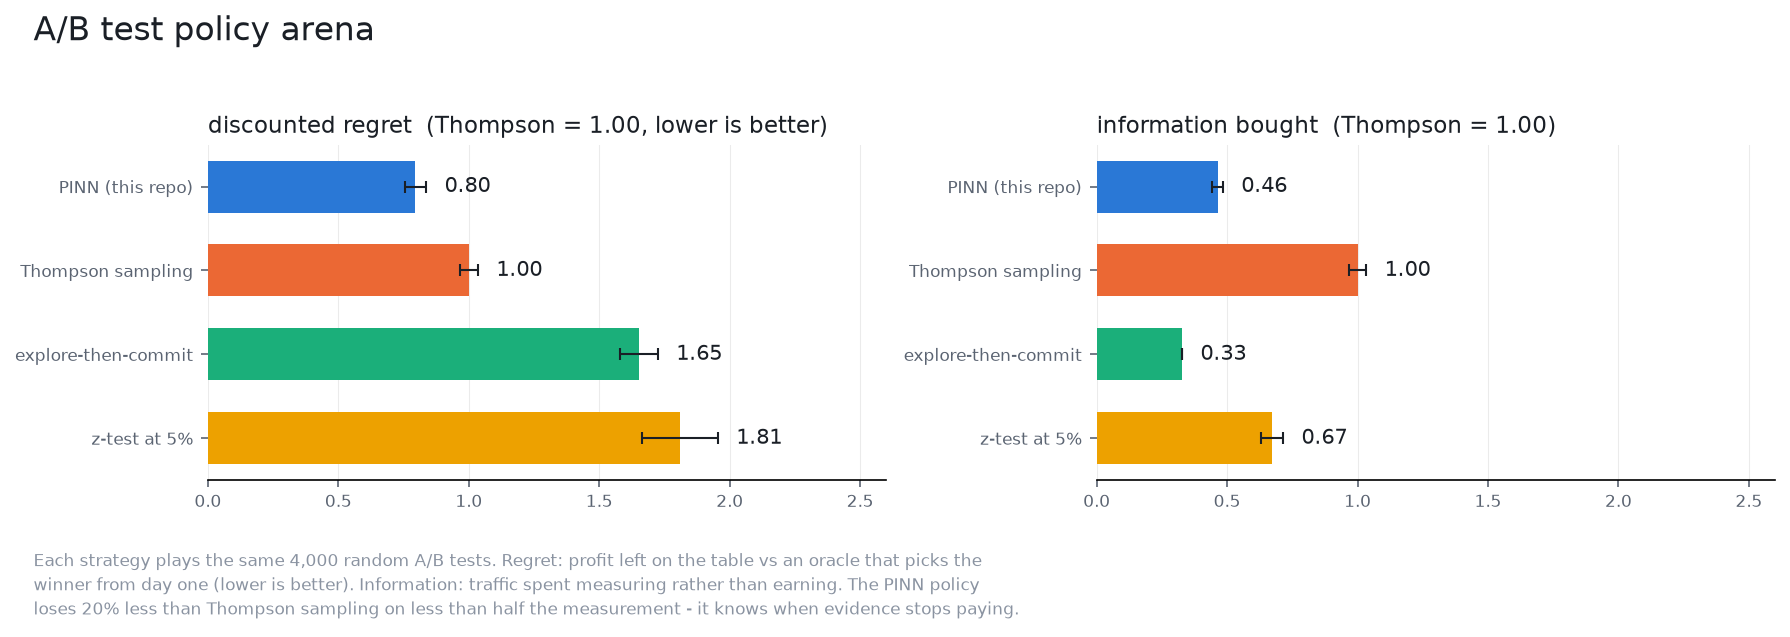
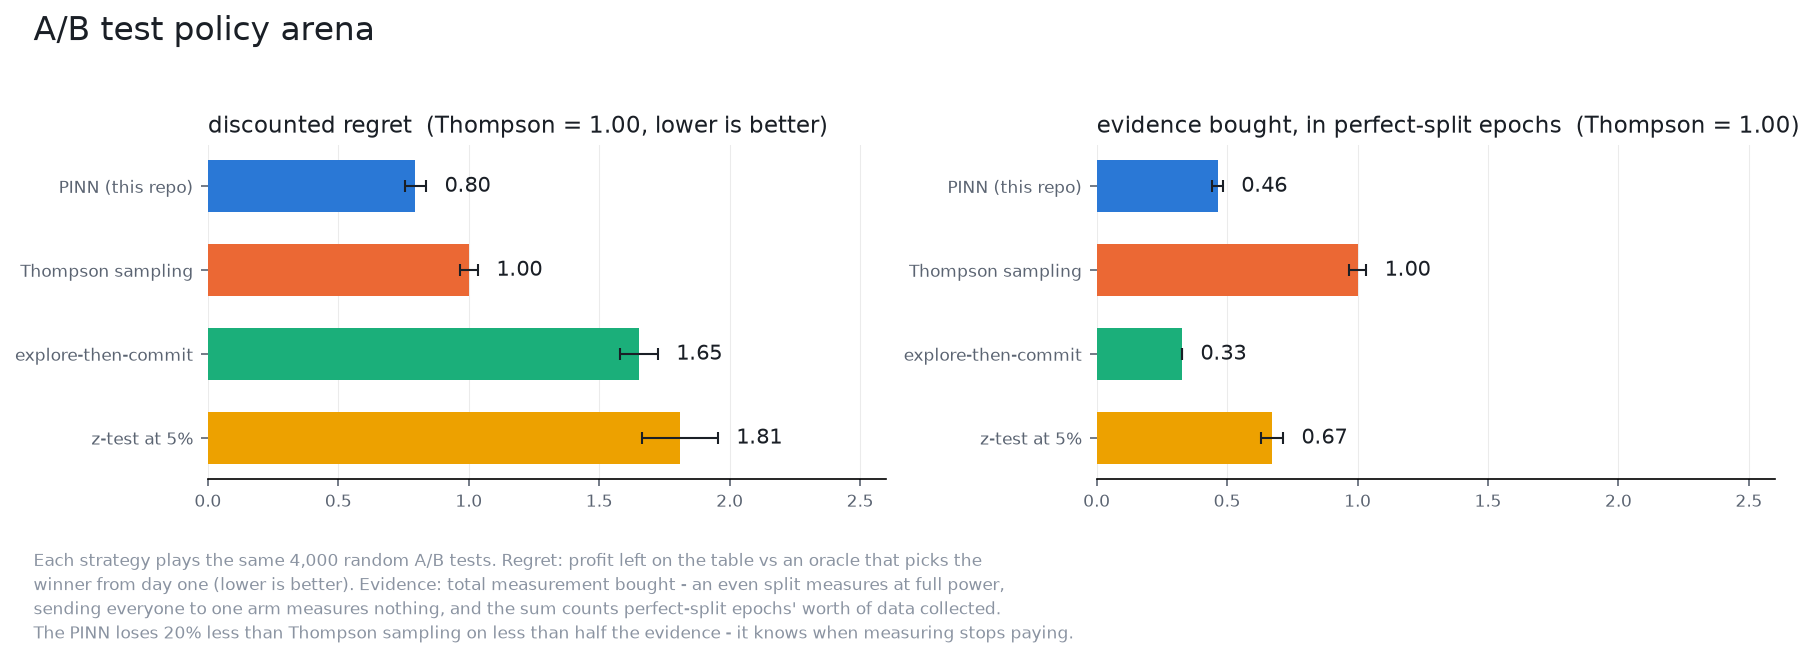
bumped readme

diff --git a/README.md b/README.md
@@ -1,8 +1,8 @@
 # PINN for optimal decisions in your business
 
-If you love money, you will love this repo! It's all about money and decision-making, things that Very-Important HiGh StAkEs people do. Naah! Just kidding. This is just for computers to take those decisions for you. For example, the age-old question: AB-testing. The blue button or the red button? In this repo,I tackle AB, ABC and more decision processes using the final-boss of all decision methodologies: [the HJB equation](https://en.wikipedia.org/wiki/Hamilton%E2%80%93Jacobi%E2%80%93Bellman_equation). If you are spooked by horrible equations, don't click!
+If you love money, you will love this repo! It's all about money and decision-making, things that Very-Important HiGh StAkEs people do. Naah! Just kidding. This is just for computers to take those decisions for you. For example, the age-old question: AB-testing. The blue button or the red button? In this repo, I tackle AB, ABC and more decision processes using the final-boss of all decision methodologies: [the HJB equation](https://en.wikipedia.org/wiki/Hamilton%E2%80%93Jacobi%E2%80%93Bellman_equation). If you are spooked by horrible equations, don't click!
 
-Since you might be a very busy person, here is the gist of it: I did the complex part so that you may have fun with a real piece of engineering. To _use_ the code in this repo, it's quite easy: you just need the trained model and off you go (see usage below). Yes, it's a Neural Net trained for _your_ problem. No, I didn't invade your company's server and stole your datasets. The neural networks here work as _controllers_ to solve a complicated, but well-known problem, such as AB testing. Just plug-and-play and let the neurons do the rest.
+Since you might be a very busy person, here is the gist of it: I did the complex part so that you may have fun with a real piece of engineering. To _use_ the code in this repo, it's quite easy: you just need the trained model and off you go (see usage below). Yes, it's a Neural Net trained for _your_ problem. No, I didn't invade your company's server and steal your datasets. The neural networks here work as _controllers_ to solve a complicated, but well-known problem, such as AB testing. Just plug-and-play and let the neurons do the rest.
 
 ## But is it any good?
 
@@ -10,63 +10,120 @@ Yes, it even beats Thompson Sampling for a simple AB test. Oh! If you have been 
 
 ![Arena results](docs/arena_two_arm.png)
 
-Slightly better than TS in terms of "gains left on the table" (regret) and with the added benefit that _it actually stops_. It also needs to explore less in total. TS, even though it can deliver the goods, is know to be quite the over-curious explorer and the neural network fixes that.  
+| policy | regret (Thompson = 1.00) | wrong commits | commits | evidence (Thompson = 1.00) |
+|---|---|---|---|---|
+| PINN (this repo) | **0.80** | 6.6% | 99.2% | **0.46** |
+| Thompson sampling | 1.00 | 0.0% | never | 1.00 |
+| explore-then-commit | 1.65 | 13.0% | 100% | 0.33 |
+| z-test at 5% | 1.81 | 10.7% | 93.7% | 0.67 |
 
-# pinn
+Slightly better than TS in terms of "gains left on the table" (regret) and with the added benefit that _it actually stops_. It also needs to explore less in total. TS, even though it can deliver the goods, is known to be quite the over-curious explorer and the neural network fixes that. Full tables, including the three-arm arena, live in [docs/arena_results.md](docs/arena_results.md).
 
-Physics-informed neural networks for the optimal allocation of experiment
-traffic: given noisy A/B(/C) test observations, a discount rate, and the
-option to commit to an arm forever, how should traffic be split *right now*?
-That question is a Hamilton-Jacobi-Bellman free-boundary problem; this repo
-solves it by training a network on the PDE itself — no simulation data — and
-reads the allocation policy off the trained value function's derivatives.
+## Beyond just AB
+
+### We can do ABC as well. Look at the policy atlas for it:
 
 ![The learned three-arm allocation policy](docs/policy_atlas.png)
 
-The picture is the trained three-arm policy: each point is a belief state
-(posterior means of challengers B and C relative to control), each color is
-the traffic split played there. With little information, the policy blends —
-paying for evidence on every arm at once. As information accumulates, three
-commit basins crystallize, separated by narrowing exploration corridors that
-meet at the triple point where all three arms are still in play. Nobody drew
-those boundaries; they are free boundaries of the HJB equation, found by the
-network.
+This "Gaussian blur"-thingy vanishing with information shows the net being more confident the more information you pass to it. And its performance is even better than for the AB test:
 
-## Does it matter?
+![A/B/C arena results](docs/arena_three_arm.png)
 
-![Arena results](docs/arena_two_arm.png)
+| policy | regret (Thompson = 1.00) | wrong commits | commits | evidence (Thompson = 1.00) |
+|---|---|---|---|---|
+| PINN (this repo) | **0.77** | 10.4% | 99.8% | **0.38** |
+| Thompson sampling | 1.00 | 0.0% | never | 1.00 |
+| elimination at 5% (generalized z-test) | 1.53 | 11.8% | 90.5% | 0.71 |
+| explore-then-commit | 1.81 | 20.9% | 100% | 0.29 |
 
-In a discrete-epoch simulation harness (`pinn/arena`) against the true
-effect, with paired seeds and realistic economics, the PINN
-policy pays **20% less discounted regret than Thompson sampling** — the
-strongest practical baseline, which itself beats explore-then-commit and
-peeking z-tests by wide margins — while buying **less than half the
-information**. The mechanism: Thompson sampling prices uncertainty but not
-patience; the HJB value function prices both, so it exploits earlier and
-knows when further evidence stops being worth its discounted cost.
+What about ABCD? Man, the equations are *gnarly* for ABC already and should just be impossible for ABCD, but if you want to build it, you are welcome to contribute with a PR. There is already some support and some tips about how to do it in
+[docs/learnings.md](docs/learnings.md). However, be warned that PINNs do not scale to even hundreds of input dimensions and the number of features you have to feed the network is quadratic.
+
+### More coming in the future
+
+There are other related problems I plan to tackle in the future. They are still stochastic models, but stray away from bandit problems. Star this repo and stay tuned!
 
 ## What's inside
 
-- `pinn/problems/two_arm`, `pinn/problems/three_arm` — the trainable models
-  (dimensionless, wedge-quotiented by the problems' exact symmetries),
-  samplers, and PDE losses. The math lives in `docs/two_arm.md` and
+A quick map of the repo, for the curious:
+
+- `pinn/problems/two_arm` and `pinn/problems/three_arm`: the trainable models,
+  samplers, and PDE losses (dimensionless, wedge-quotiented by the problems'
+  exact symmetries). The math lives in `docs/two_arm.md` and
   `docs/three_arm.md`; the transferable method in `docs/learnings.md`.
-- `pinn/arena` — the policy shoot-out: N-arm regret harness, baseline zoos
-  (Thompson, explore-then-commit, z-test/elimination), and the PINN entrant.
-  `poetry run arena simulate ... && poetry run arena analyze ...`.
-- `train.py`, `probes.py`, `plot.py`, `benchmark3.py`, `validate.py` — CLIs
+- `pinn/arena`: the policy shoot-out. An N-arm regret harness, the baseline
+  zoo (Thompson, explore-then-commit, z-test/elimination), and the PINN
+  entrant. Run it with `poetry run arena simulate ...` and then
+  `poetry run arena analyze ...`.
+- `train.py`, `probes.py`, `plot.py`, `benchmark3.py`, `validate.py`: CLIs
   for training and diagnostics.
 
-Trained checkpoints are published as GitHub release assets
-(`checkpoints-2026-08-06`); drop them in `data/` and every CLI finds them.
+Trained models are published on the
+[latest release](https://github.com/tokahuke/pinn/releases/latest). If you
+just want it to work, take `value_2a_32x512.pt` for two arms and
+`value_3a_64x64x64.pt` for three arms; the other assets are archival.
+Everything else in this repo exists to train, test, and beat those two files.
 
 ## Quickstart
 
 ```sh
 poetry install
 poetry run python train.py --problem three_arm     # train (Ctrl-C saves)
-poetry run python probes.py --in data/value_3a_64:64:64.pt   # diagnostics
+poetry run python probes.py --in data/three_arm.pt   # diagnostics
 poetry run arena simulate data/study.pkl --problem three_arm \
     --rho 0.999 --horizon 500 --sigma 1 --effect 0 --effect-std 0.3 --size 1000
 poetry run arena analyze data/study.pkl
 ```
+
+To use a trained two-arm model in your own code, load it from disk, tell it
+your economics, and ask for the split:
+
+```python
+import torch
+from pinn.problems.two_arm import DimensionlessValueFunction, ValueFunction
+
+# Your experiment's economics: sigma is the noise scale of one observation,
+# rho the discount rate per observation (how impatient you are).
+value = ValueFunction(
+    DimensionlessValueFunction.load("data/value_2a_32x512.pt"),
+    rho=0.001,
+    sigma=50.0,
+)
+
+# Current posterior: treatment leads by mu = 1.0 with precision tau = 0.1
+# (standard deviation ~3.2). The policy returns the share of traffic to
+# send to treatment right now.
+value.policy(torch.tensor([1.0]), torch.tensor([0.1]))   # 0.69: lean in, keep testing
+value.policy(torch.tensor([3.0]), torch.tensor([0.25]))  # 1.00: commit, stop testing
+```
+
+An answer of exactly 1.0 or 0.0 is the model saying the test is over: further
+evidence is no longer worth its discounted cost. Three arms work the same way
+through `pinn.problems.three_arm` with the pair of challenger means and the
+2x2 precision matrix.
+
+## License
+
+Copyright 2026 Pedro Arruda.
+
+Licensed under the Apache License, Version 2.0 (the "License"); you may not
+use the contents of this repository except in compliance with the License.
+You may obtain a copy of the License at
+http://www.apache.org/licenses/LICENSE-2.0 (also included in
+[LICENSE](LICENSE)).
+
+Unless required by applicable law or agreed to in writing, the software and
+the trained model checkpoints published as release assets are distributed on
+an "AS IS" BASIS, WITHOUT WARRANTIES OR CONDITIONS OF ANY KIND, either
+express or implied, including without limitation any warranty of
+merchantability, fitness for a particular purpose, or non-infringement. In
+no event shall the authors or copyright holders be liable for any claim,
+damages, or other liability arising from the use of this software or the
+published model checkpoints, including decisions made or actions taken by
+systems that incorporate them. See the License for the specific language
+governing permissions and limitations.
+
+The models implement statistical decision-making under uncertainty; their
+outputs are not guaranteed to be correct, optimal, or fit for any particular
+application. Users are solely responsible for validating suitability before
+deployment.

diff --git a/docs/arena_results.md b/docs/arena_results.md
@@ -1,0 +1,70 @@
+# Arena results (2026-08-06)
+
+Policy shoot-out in `pinn/arena`: discrete-epoch simulation against the true
+effect, discounted regret vs the always-pick-the-winner oracle, 4,000 paired
+experiments per problem (same effect draw and noise stream across policies
+within a rep). Effects drawn iid from a zero-centered normal; parameters
+chosen to mirror a realistic deployment (values intentionally not recorded
+here). All numbers are relative to Thompson sampling = 1.00 within each
+problem; absolute regret is parameter-scale-dependent and meaningless across
+configs.
+
+Policies play prior-blind (priors are policy parameters, never the
+environment's effect distribution). The PINN entrants run the champion
+checkpoints of this date — two_arm `value_2a_32:512.pt`, three_arm
+`value_3a_64:64:64.pt` (both on the `checkpoints-2026-08-06` release) — with
+the near-flat default prior, evaluated directly (no policy table), commits
+landing on exact simplex vertices.
+
+## Two arms
+
+| policy | regret (TS = 1.00) | wrong-commit | commits | median commit (fraction of horizon) | evidence (TS = 1.00) |
+|---|---|---|---|---|---|
+| PINN | **0.80** | 6.6% | 99.2% | 0.06 | **0.46** |
+| Thompson sampling | 1.00 | 0.0% | never | — | 1.00 |
+| explore-then-commit | 1.65 | 13.0% | 100% | 0.07 | 0.33 |
+| z-test at 5% | 1.81 | 10.7% | 93.7% | 0.02 | 0.67 |
+
+Baseline values are stable across independent sweeps at different sizes, so
+the harness is measuring on a settled scale. CIs (95%, 4k runs): about
++/-0.04 on the PINN and TS rows in these relative units; the PINN-TS gap is
+~7 combined standard errors before crediting the pairing.
+
+## Three arms
+
+| policy | regret (TS = 1.00) | wrong-commit | commits | median commit (fraction of horizon) | evidence (TS = 1.00) |
+|---|---|---|---|---|---|
+| PINN | **0.77** | 10.4% | 99.8% | 0.09 | **0.38** |
+| Thompson sampling | 1.00 | 0.0% | never | — | 1.00 |
+| elimination at 5% (generalized z-test) | 1.53 | 11.8% | 90.5% | 0.04 | 0.71 |
+| explore-then-commit | 1.81 | 20.9% | 100% | 0.07 | 0.29 |
+
+(Original ratios vs best: TS 1.29, elimination 1.97, ETC 2.34; renormalized
+to TS = 1.00 above for comparability with the two-arm table.)
+
+## Readings
+
+- **The PINN margin grows with arms**: 20% less regret than Thompson at two
+  arms, 22.5% at three. Thompson splits exploration by win-probability; the
+  HJB prices each contrast's information against the discount, and that
+  advantage compounds as contrasts multiply.
+- **It wins while buying less**: 46% of Thompson's information spend at two
+  arms, 38% at three — the PINN's spend went DOWN with an extra arm while
+  Thompson's went up. The mechanism is not measuring better; it is knowing
+  when measurement stops being worth its discounted price, and committing
+  (99%+ of runs) through the one-way door Thompson never takes.
+- **Classical methods degrade with arms exactly as theory warns**:
+  explore-then-commit's wrong-commit rate jumps 13% -> 21% (one fixed
+  deadline cannot serve two unknown gaps), and peeking-style testing stays
+  ~2x despite buying more information than anyone but Thompson.
+- **Soft commit time** (`N (1 - sum a^2) / (N - 1)` summed over epochs, the
+  uniform-equivalent epochs of evidence) is what makes the information
+  column comparable across arms counts; explore-then-commit's value equals
+  its deadline exactly with zero variance, the metric's built-in canary.
+  Commit timings are reported as fractions of the horizon so the tables
+  carry no absolute parameter information.
+
+Reproduce: `poetry run arena simulate <out.pkl> --problem two_arm|three_arm
+--rho ... --size 4000 --workers 8`, then `poetry run arena analyze <out.pkl>`.
+Raw studies of this date: `data/frontier4k.pkl`, `data/frontier3a.pkl`
+(gitignored, parameter-bearing).

diff --git a/CLAUDE.md b/CLAUDE.md
@@ -150,9 +150,8 @@ The headline (2026-08-06): in the arena, at realistic parameters (values in
 project memory, not committed), the two_arm PINN policy beat
 Thompson sampling — the strongest practical baseline — by ~20% of
 discounted regret while buying less than half the information (precision
-time 332 vs 717), with the other baselines reproduced against an earlier
-private study to within a fraction of a CI. Three-arm arena results
-pending.
+time 332 vs 717), with baseline values stable across independent sweeps.
+Three-arm arena results pending (see docs/arena_results.md once run).
 
 Open frontiers:
 - The low-tauhat floor decade: below `tauhat ~ 1e-2` the two_arm champion's
